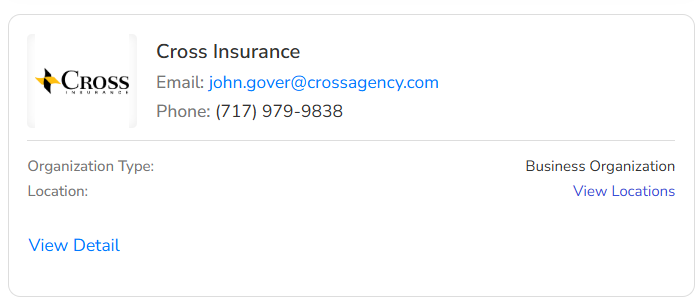
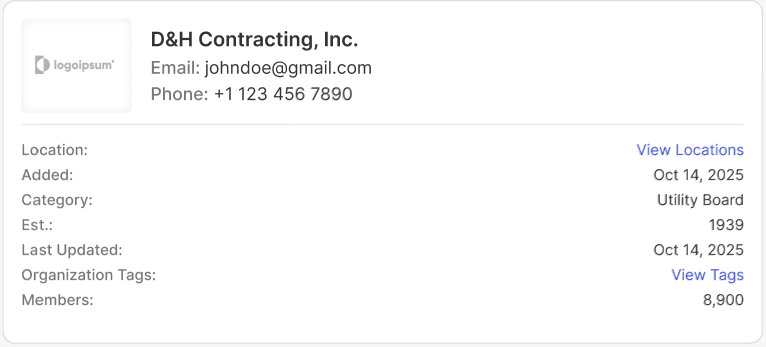
template placeholder images replaced

diff --git a/wp-content/plugins/engagifii/includes/admin/view/partials/card-layout-selection.php b/wp-content/plugins/engagifii/includes/admin/view/partials/card-layout-selection.php
@@ -67,28 +67,28 @@ $layouts = array(
 }
 .card-layout-selection .layout-preview--classic {
     min-height: 0;
-    max-height: 200px;
+    max-height: 240px;
 }
 .card-layout-selection .layout-preview--classic img {
-    max-height: 185px;
-    max-width: 72%;
+    max-height: 220px;
+    max-width: 85%;
 }
 .card-layout-selection .layout-preview--modern {
     min-height: 0;
-    max-height: 150px;
+    max-height: 130px;
 }
 .card-layout-selection .layout-preview--modern img {
-    max-height: 130px;
-    max-width: 95%;
+    max-height: 115px;
+    max-width: 100%;
     object-position: center center;
 }
 .card-layout-selection .layout-preview--minimal {
     min-height: 0;
-    max-height: 145px;
+    max-height: 160px;
 }
 .card-layout-selection .layout-preview--minimal img {
-    max-height: 125px;
-    max-width: 95%;
+    max-height: 145px;
+    max-width: 100%;
 }
 </style>
 <div class="cols-wrapper card-layout-selection">
